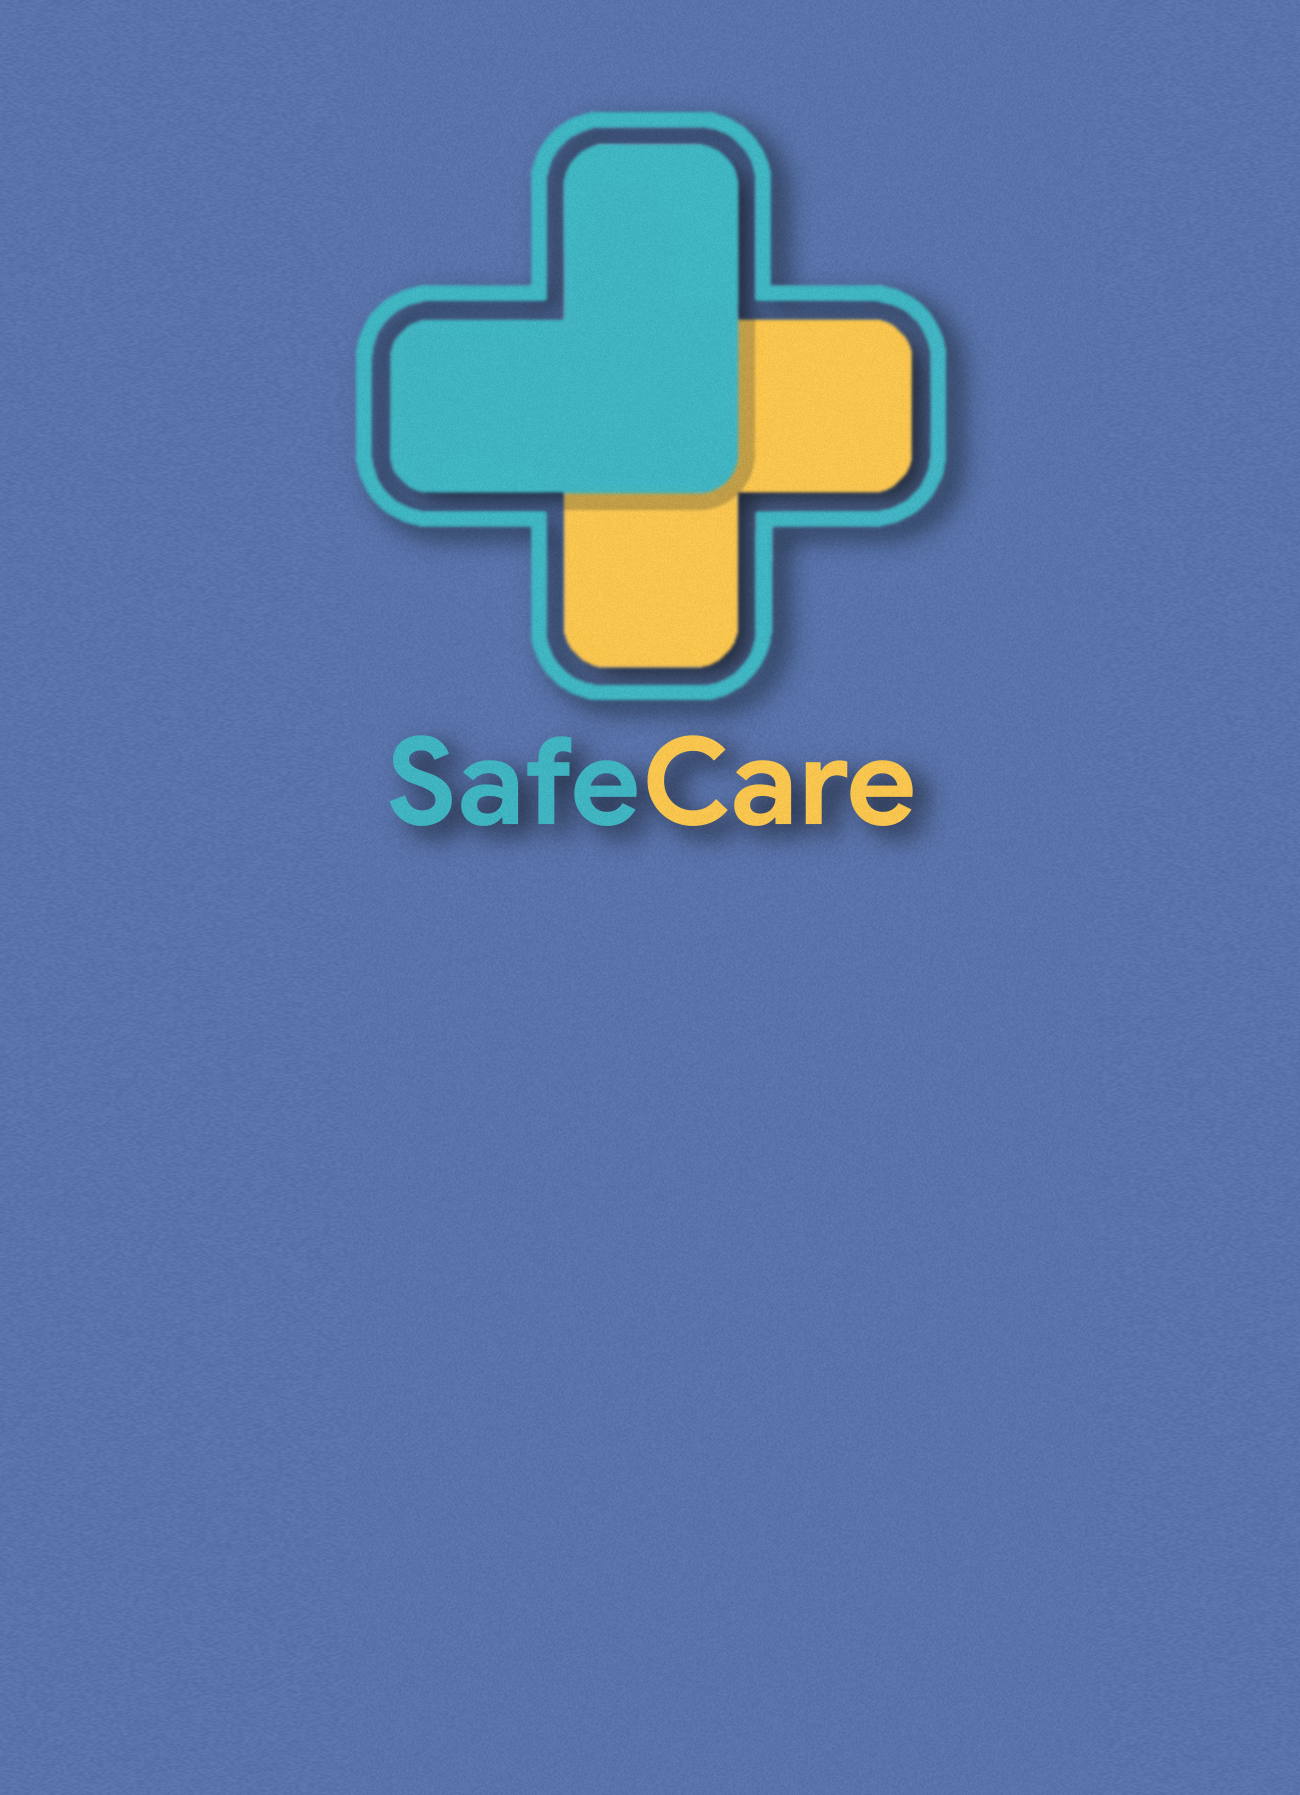
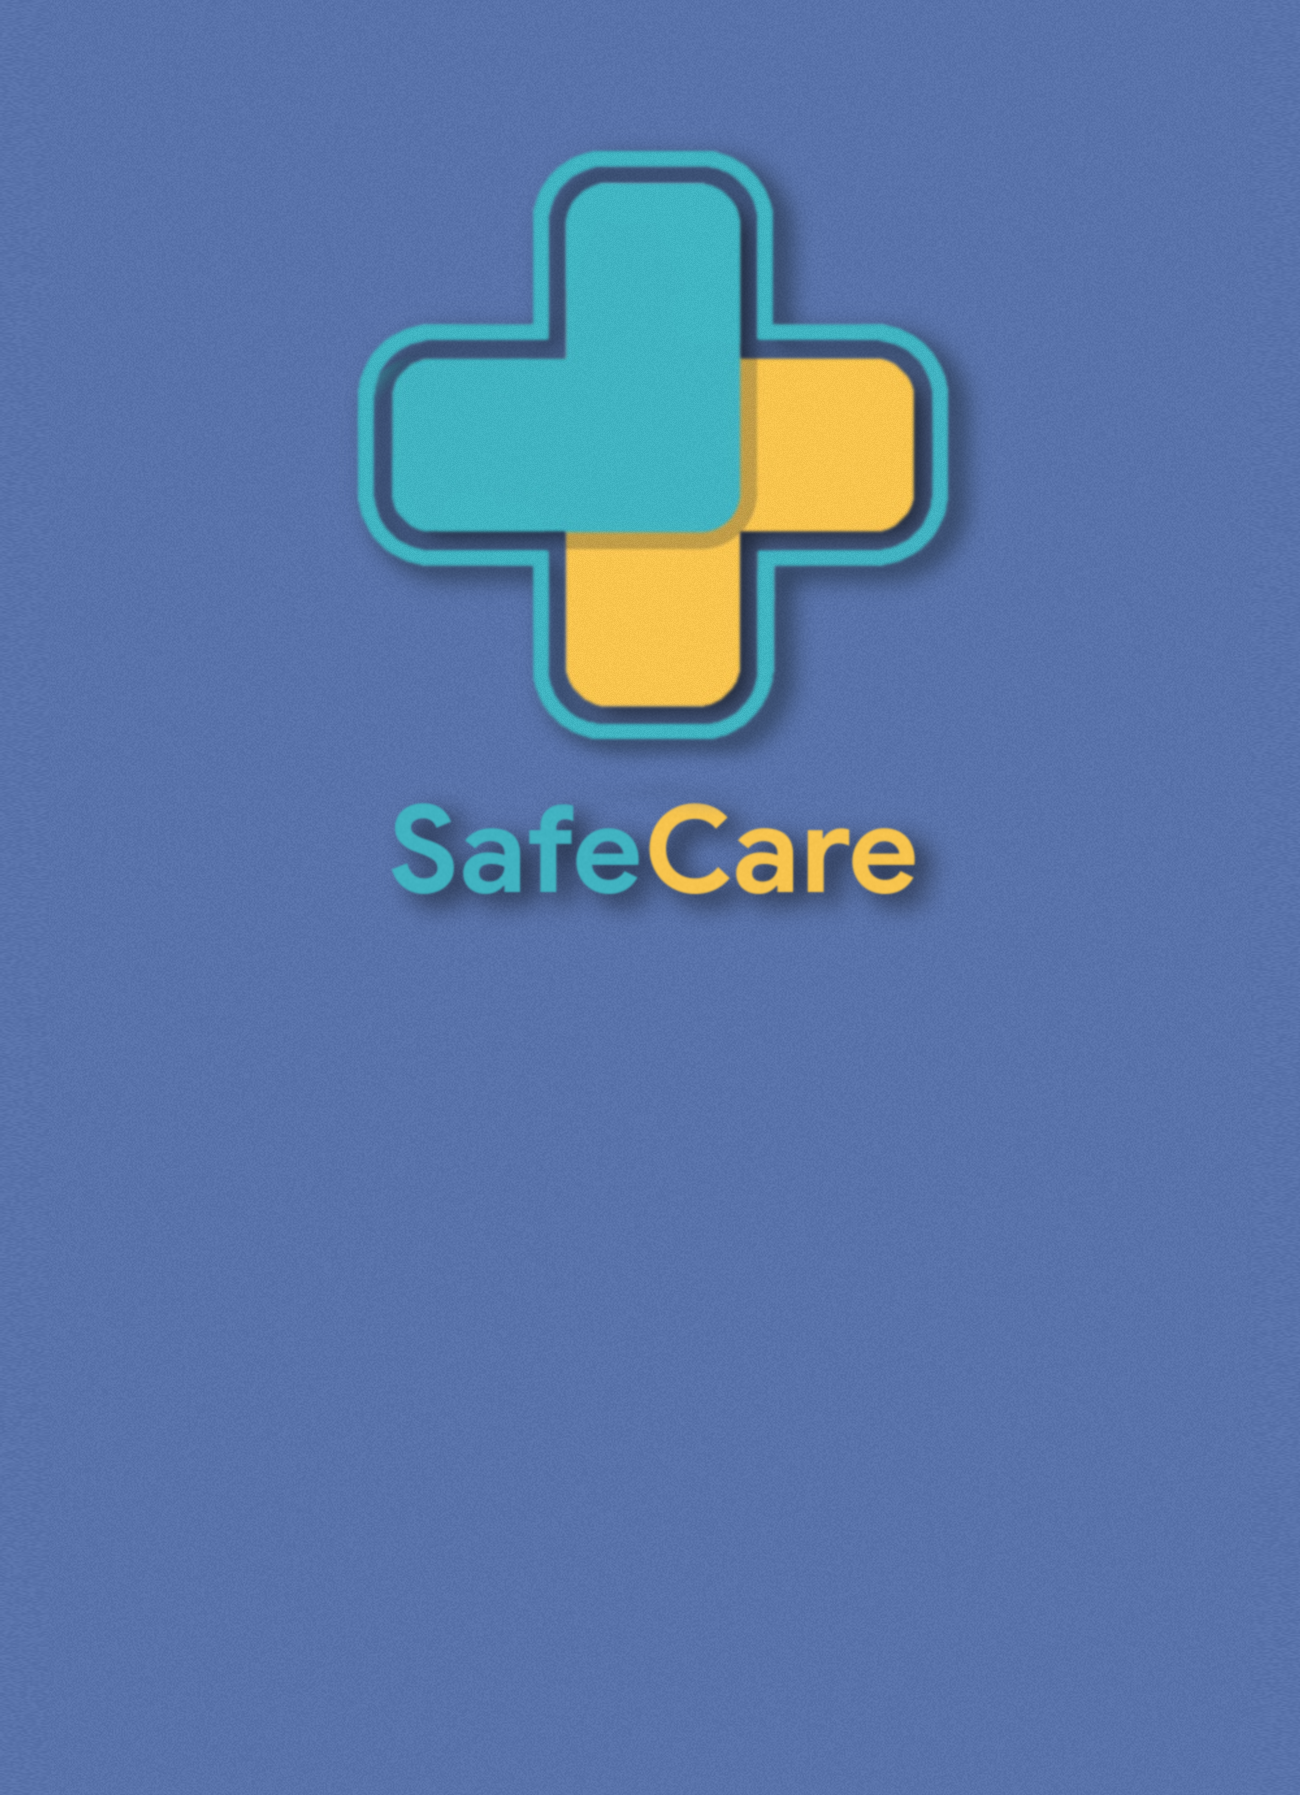
"modificato lo stage (tolto resizing) e migliorato sc.png"

Changed region(s): [[0.2769, 0.0624, 0.7692, 0.5304]]

diff --git a/src/sample/MainFrame.java b/src/sample/MainFrame.java
@@ -4,6 +4,7 @@ import javafx.application.Application;
 import javafx.fxml.FXMLLoader;
 import javafx.scene.Parent;
 import javafx.scene.Scene;
+import javafx.scene.image.Image;
 import javafx.stage.Stage;
 
 public class MainFrame extends Application {
@@ -13,8 +14,9 @@ public class MainFrame extends Application {
     public void start(Stage primaryStage) throws Exception {
         Parent root = FXMLLoader.load(getClass().getResource("Login.fxml"));
         primaryStage.setTitle("SafeCare");
-        primaryStage.setScene(new Scene(root, 553,813));
+        primaryStage.setScene(new Scene(root));
         primaryStage.show();
+        primaryStage.setResizable(false);
     }
 
     public static void main(String[] args){launch(args);}
